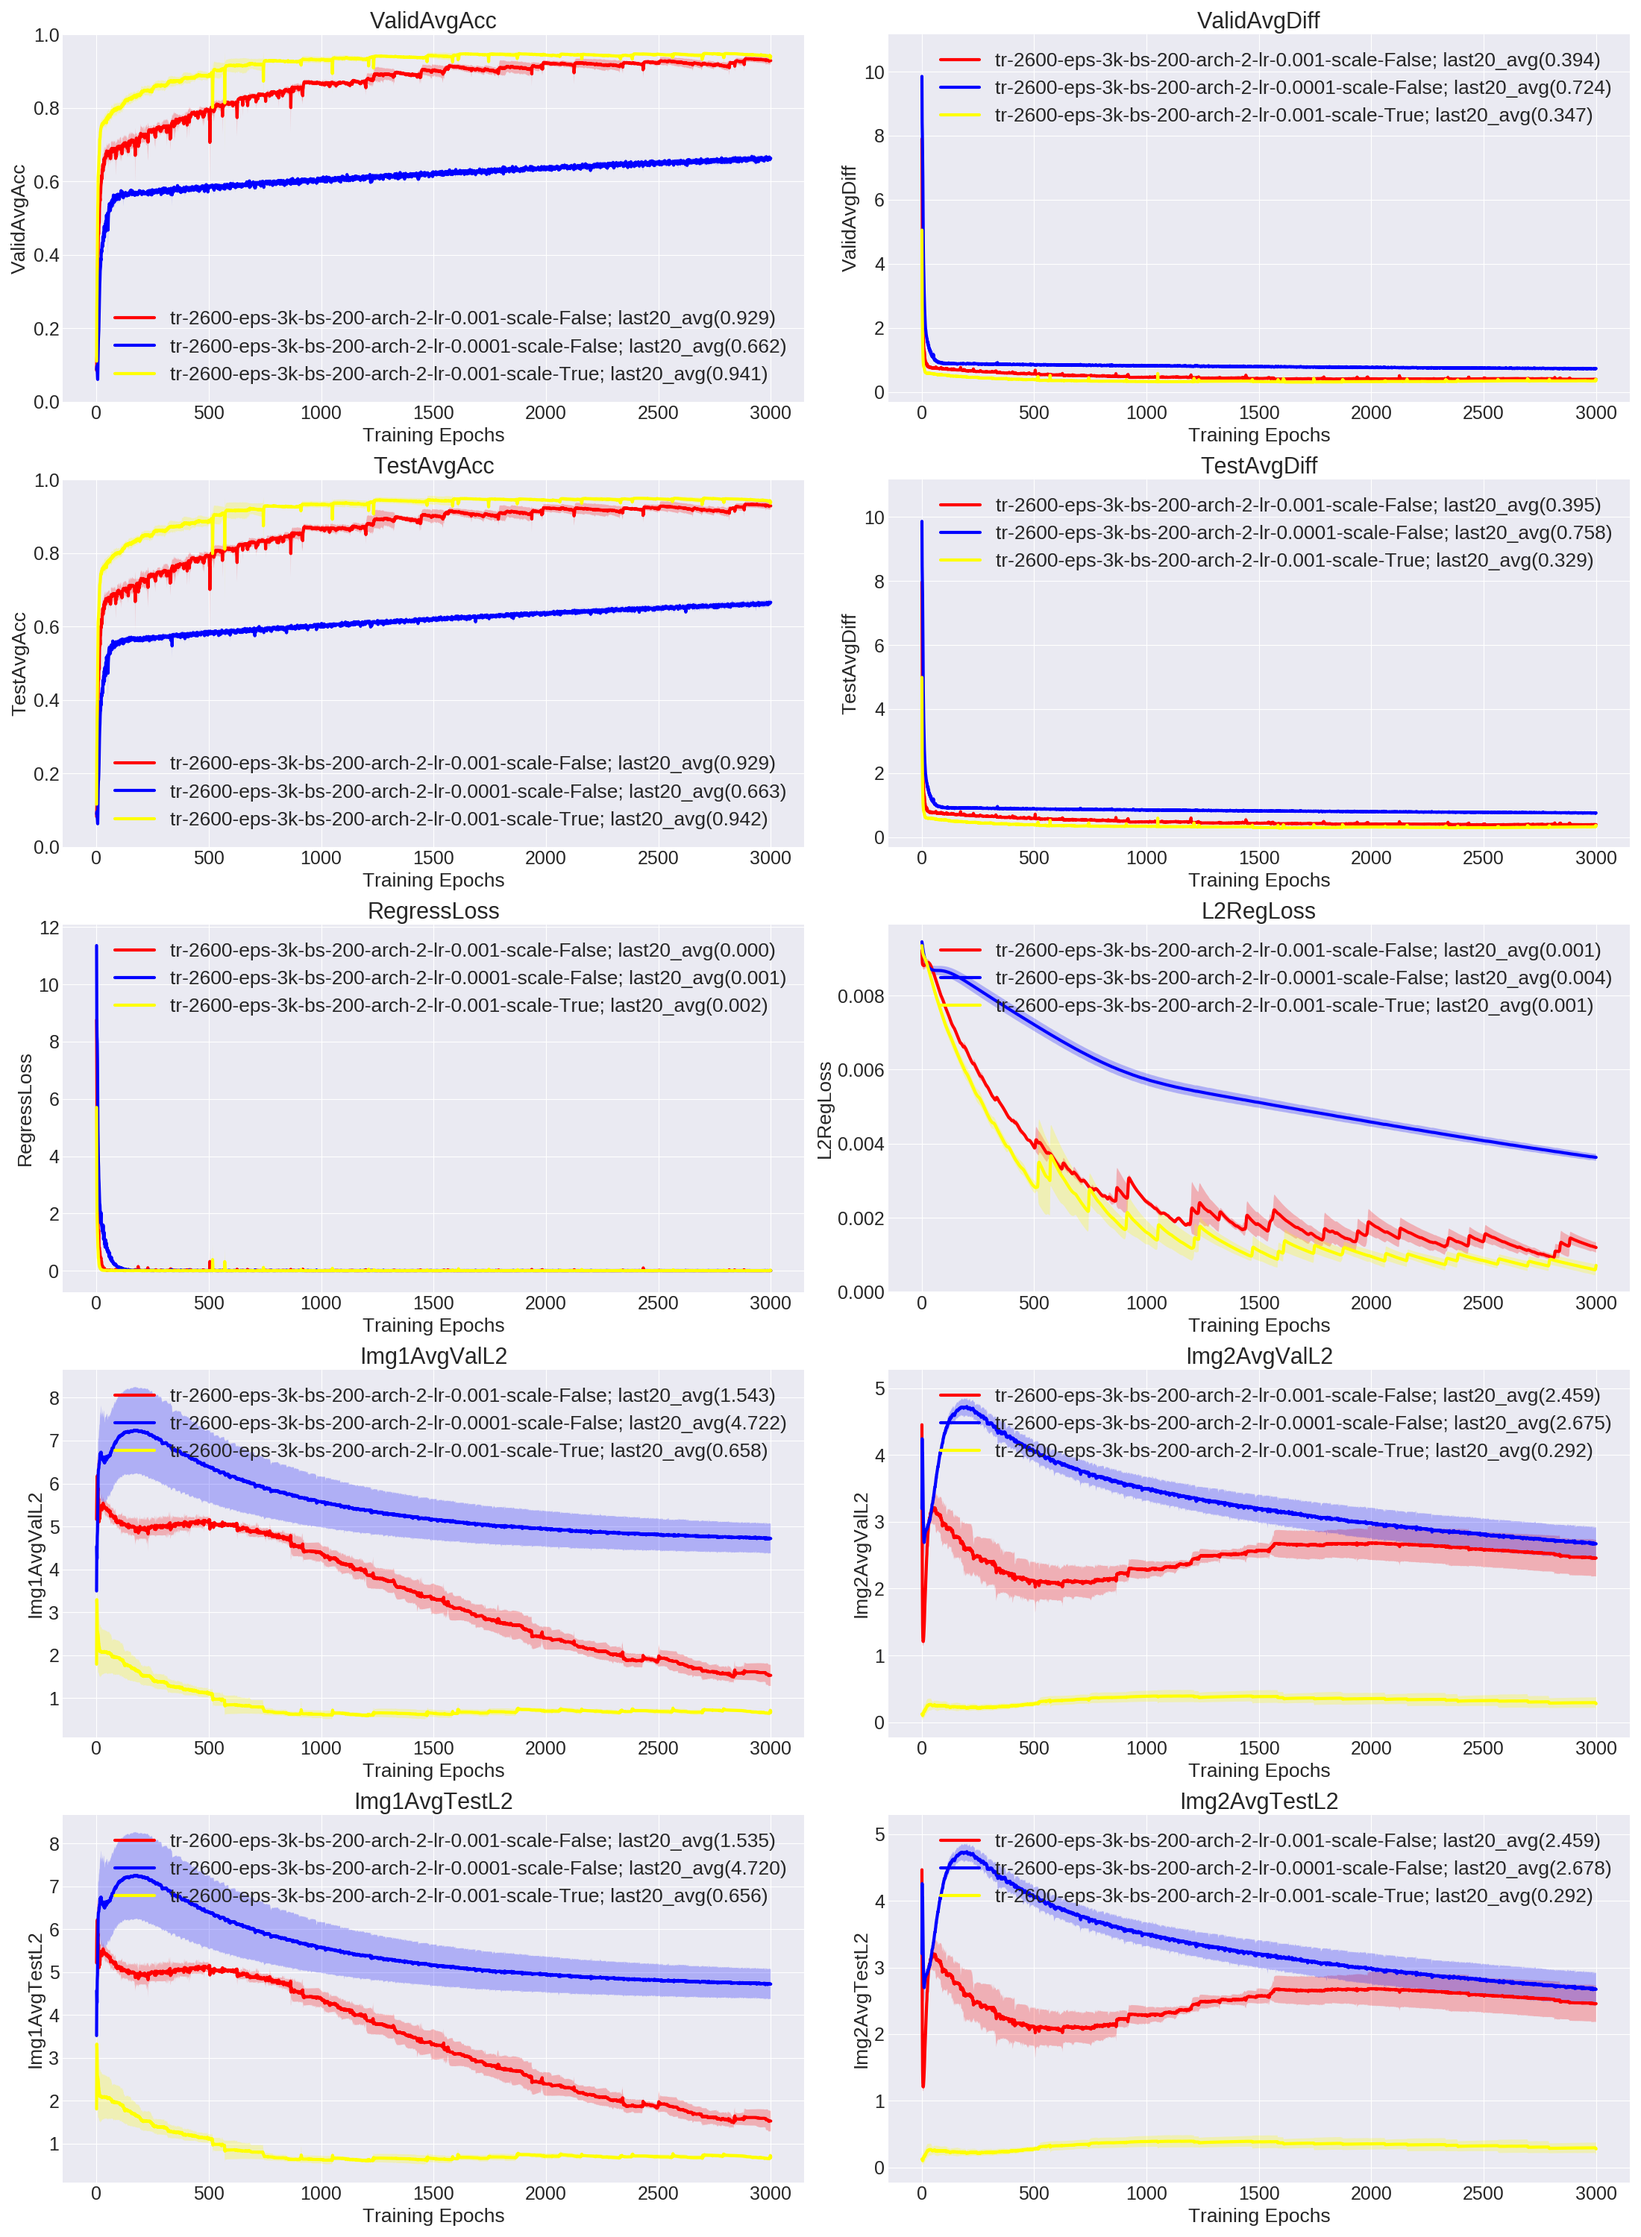
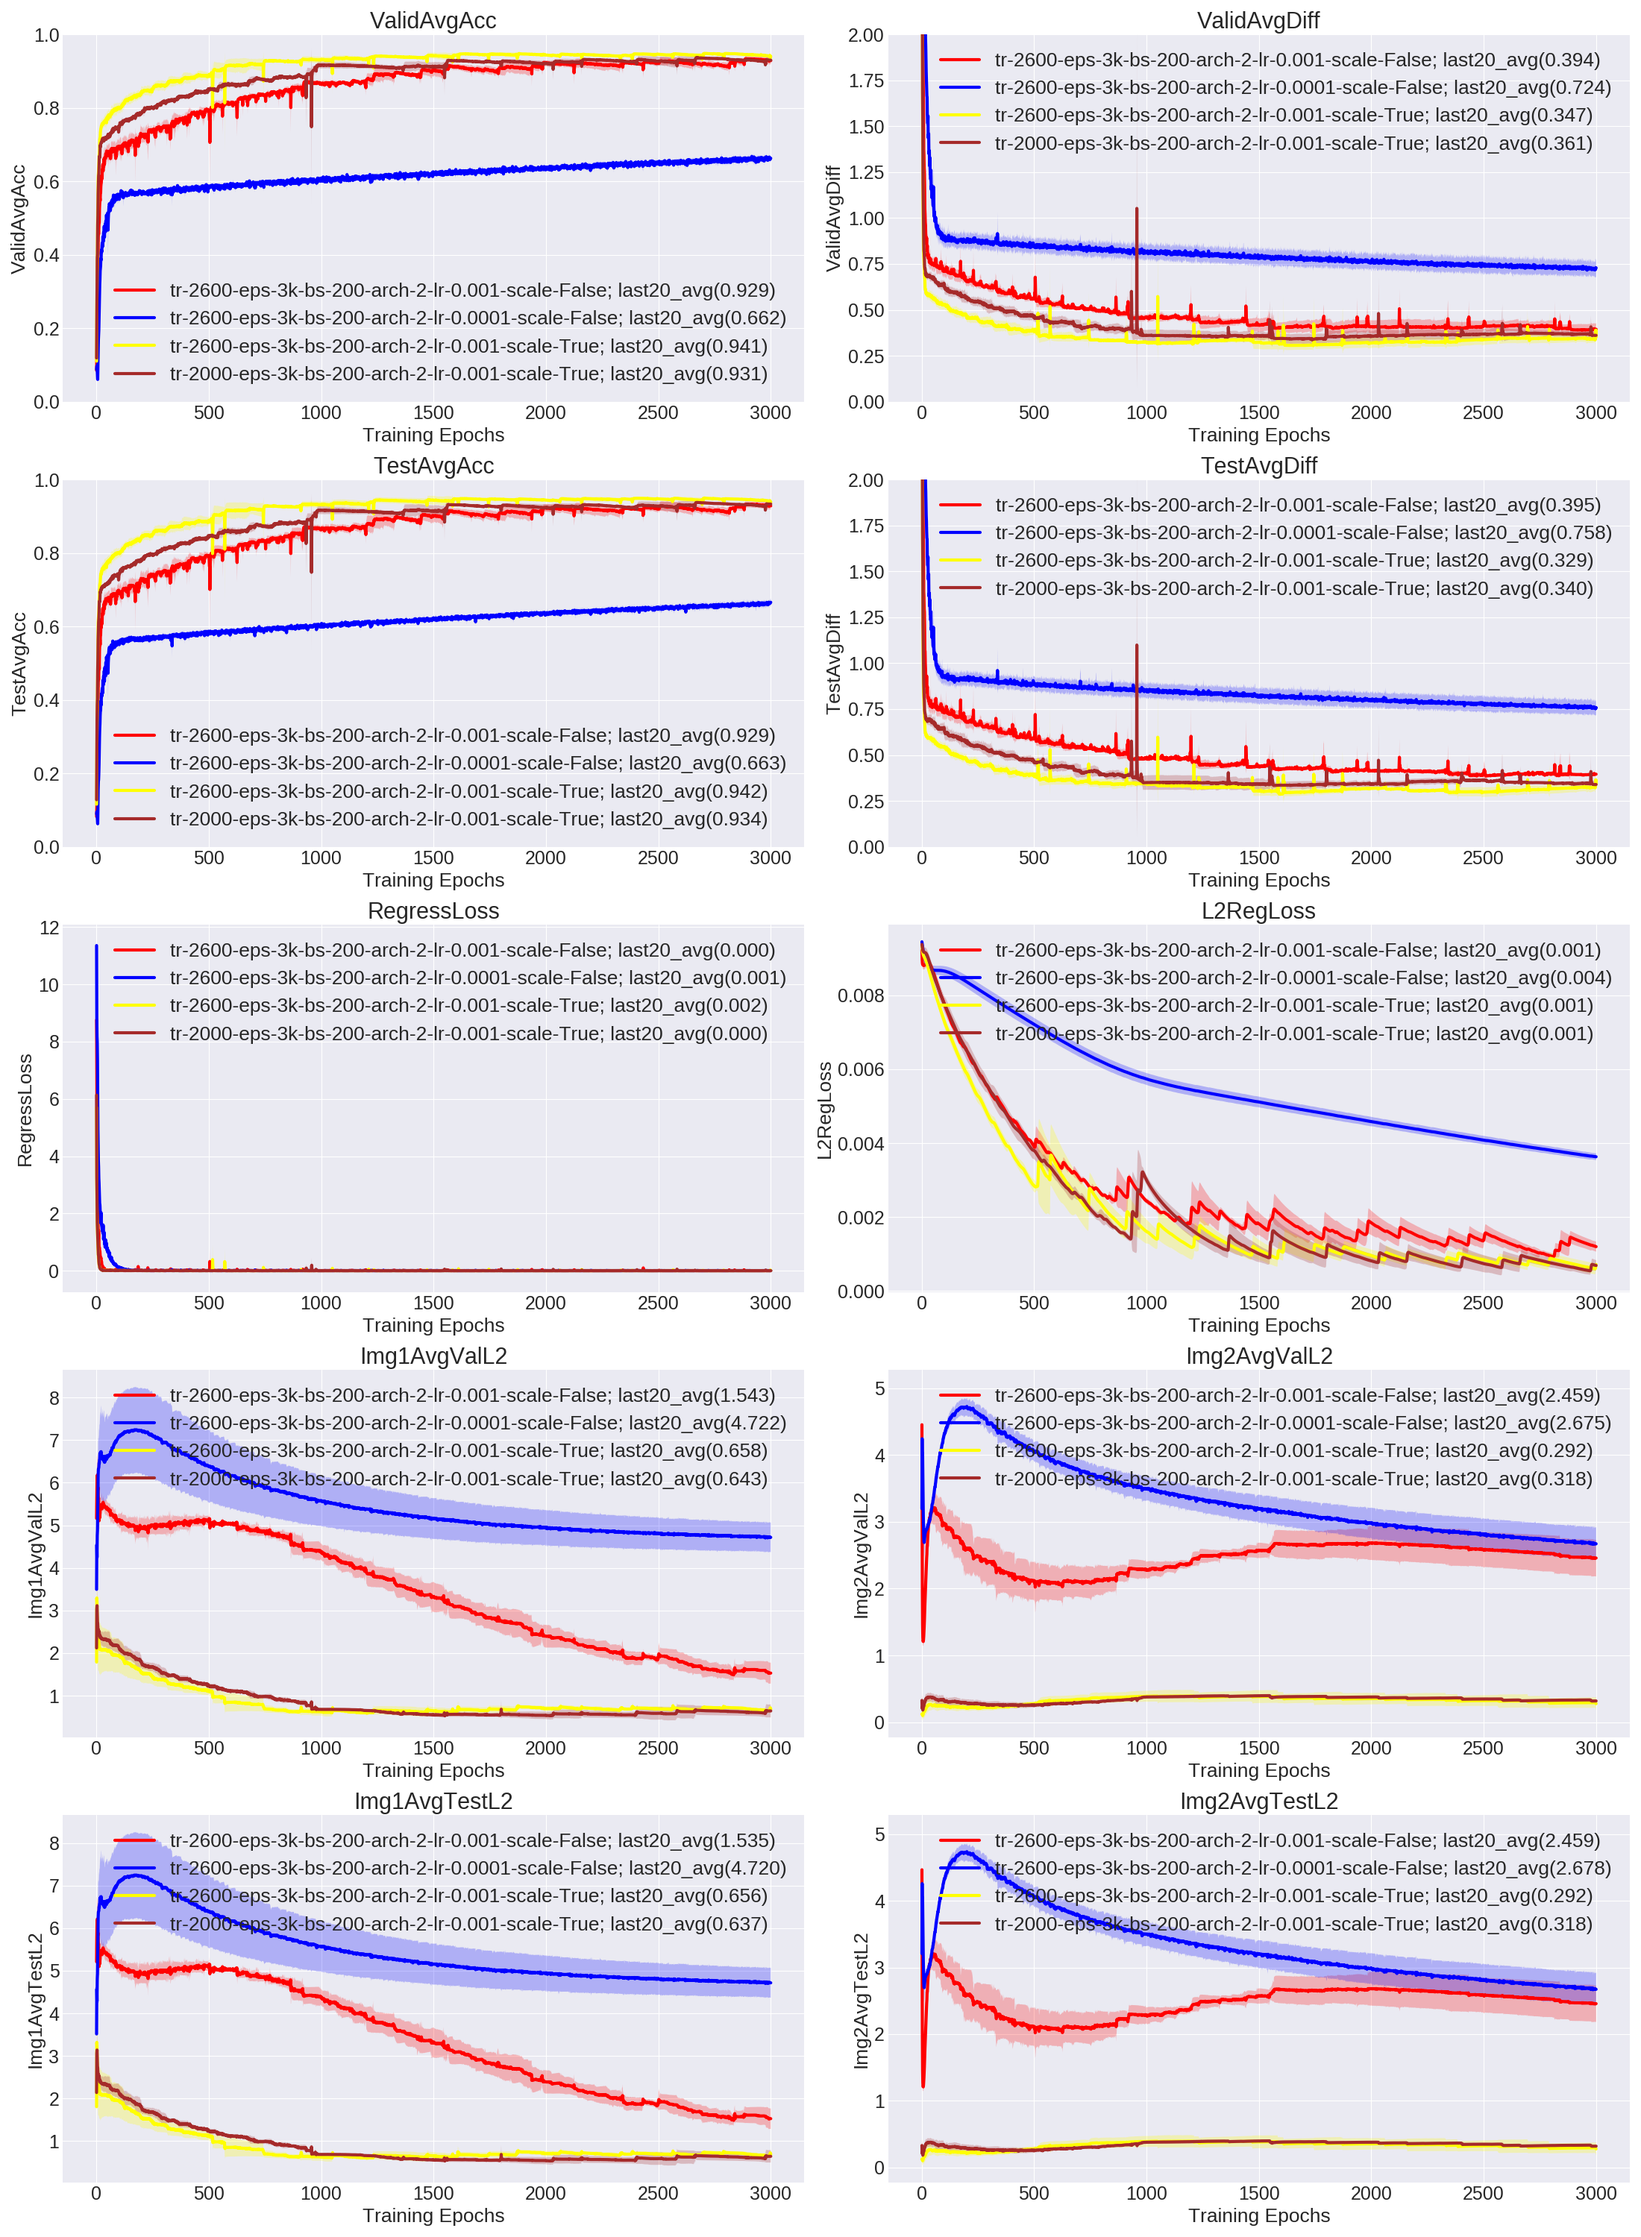
just 2000 training data points is very good (with scaling).
Without appropriate output scaling, let's see what happens (running overnight)

diff --git a/plotting/names.py b/plotting/names.py
@@ -19,16 +19,19 @@ ATTRIBUTES = [
 s1='train-2600-epochs-3000-bsize-200-arch-2-lrate-0.001-seed'
 s2='train-2600-epochs-3000-bsize-200-arch-2-lrate-0.0001-seed'
 s3='train-2600-epochs-3000-bsize-200-arch-2-lrate-0.001-scale-True-seed'
+s4='train-2000-epochs-3000-bsize-200-arch-2-lrate-0.001-scale-True-seed'
 MAR12_3000_EPOCHS = {
     'directories': [
             ['{}-{}'.format(s1,b) for b in range(0,3)],
             ['{}-{}'.format(s2,b) for b in range(0,3)],
             ['{}-{}'.format(s3,b) for b in range(0,3)],
+            ['{}-{}'.format(s4,b) for b in range(0,3)],
     ],
     'names': [
             'tr-2600-eps-3k-bs-200-arch-2-lr-0.001-scale-False',
             'tr-2600-eps-3k-bs-200-arch-2-lr-0.0001-scale-False',
             'tr-2600-eps-3k-bs-200-arch-2-lr-0.001-scale-True',
+            'tr-2000-eps-3k-bs-200-arch-2-lr-0.001-scale-True',
     ],
 }
 

diff --git a/plotting/plot_dual.py b/plotting/plot_dual.py
@@ -17,7 +17,7 @@ tick_size = 18
 legend_size = 19
 xsize, ysize = 19, 19
 lw, ms = 3, 8
-COLORS = ['red', 'blue', 'yellow']
+COLORS = ['red', 'blue', 'yellow', 'brown', 'purple']
 
 
 def get_info(dirs):
@@ -103,8 +103,10 @@ def plot(all_info, figname):
             axes[r,c].tick_params(axis='y', labelsize=tick_size)
             axes[r,c].set_xlabel("Training Epochs", fontsize=xsize)
             axes[r,c].set_ylabel("{}".format(attr), fontsize=ysize)
-            if 'Acc' in attr:
+            if 'acc' in attr.lower():
                 axes[r,c].set_ylim([0.0, 1.0])
+            elif 'diff' in attr.lower():
+                axes[r,c].set_ylim([0.0, 2.0])
             axes[r,c].set_title("{}".format(attr), fontsize=title_size)
             axes[r,c].legend(loc='best', ncol=1, prop={'size':legend_size})
     plt.tight_layout()

diff --git a/targ_digit_test.py b/targ_digit_test.py
@@ -175,7 +175,7 @@ if __name__ == '__main__':
     assert not os.path.exists(logdir), "error: {} exists!".format(logdir)
     logz.configure_output_dir(logdir)
 
-    sess = U.get_tf_session(gpumem=0.8)
+    sess = U.get_tf_session(gpumem=0.6)
     np.random.seed(args.seed)
     random.seed(args.seed)
     tf.set_random_seed(args.seed)

diff --git a/README.md b/README.md
@@ -89,9 +89,11 @@ Here, I ran:
 
 ![.](figures/mar12_3000_epochs.png?raw=true)
 
-Wow, seems like we should realistically get 93 percent performance even without
-scaling, and scaling into the range gives even better performance. And recall,
-this is all with just 2600 training data points ...
+- Seems like we should realistically get 93 percent performance even without
+  scaling, and scaling into the range gives even better performance. And recall,
+  this is all with just 2600 training data points ...
+- Oh, and we get almost as good performance based on 2000 data points (with
+  scaling).
 
 The plots are confusing in some ways, though. I can't explain the occasional
 drop or jagged shape, and recall that this is with three trials.
